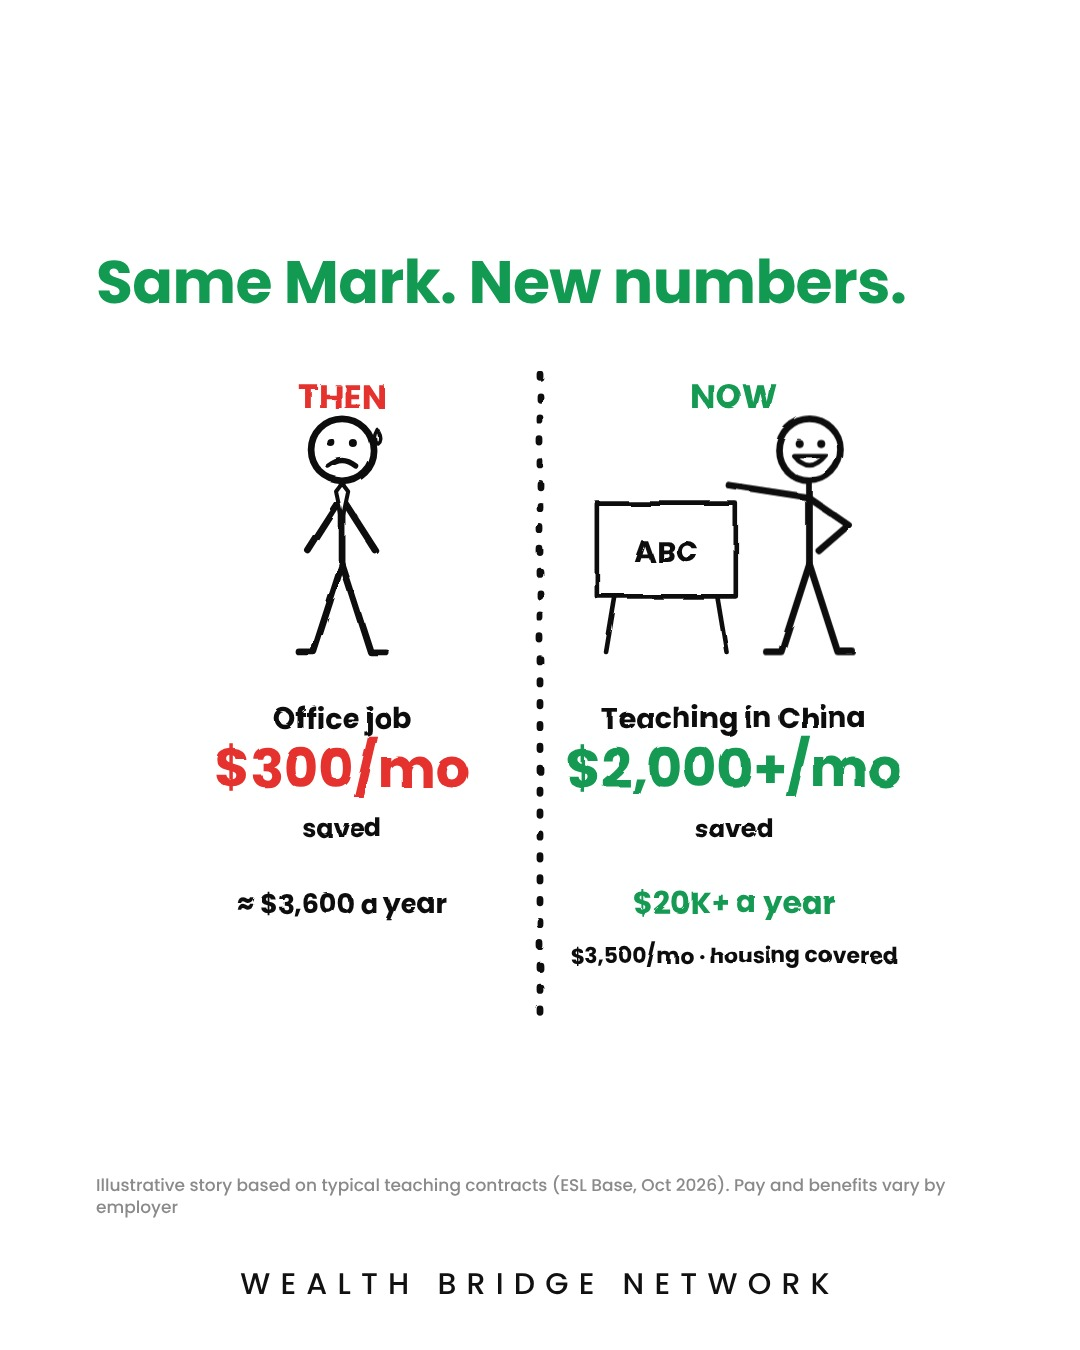
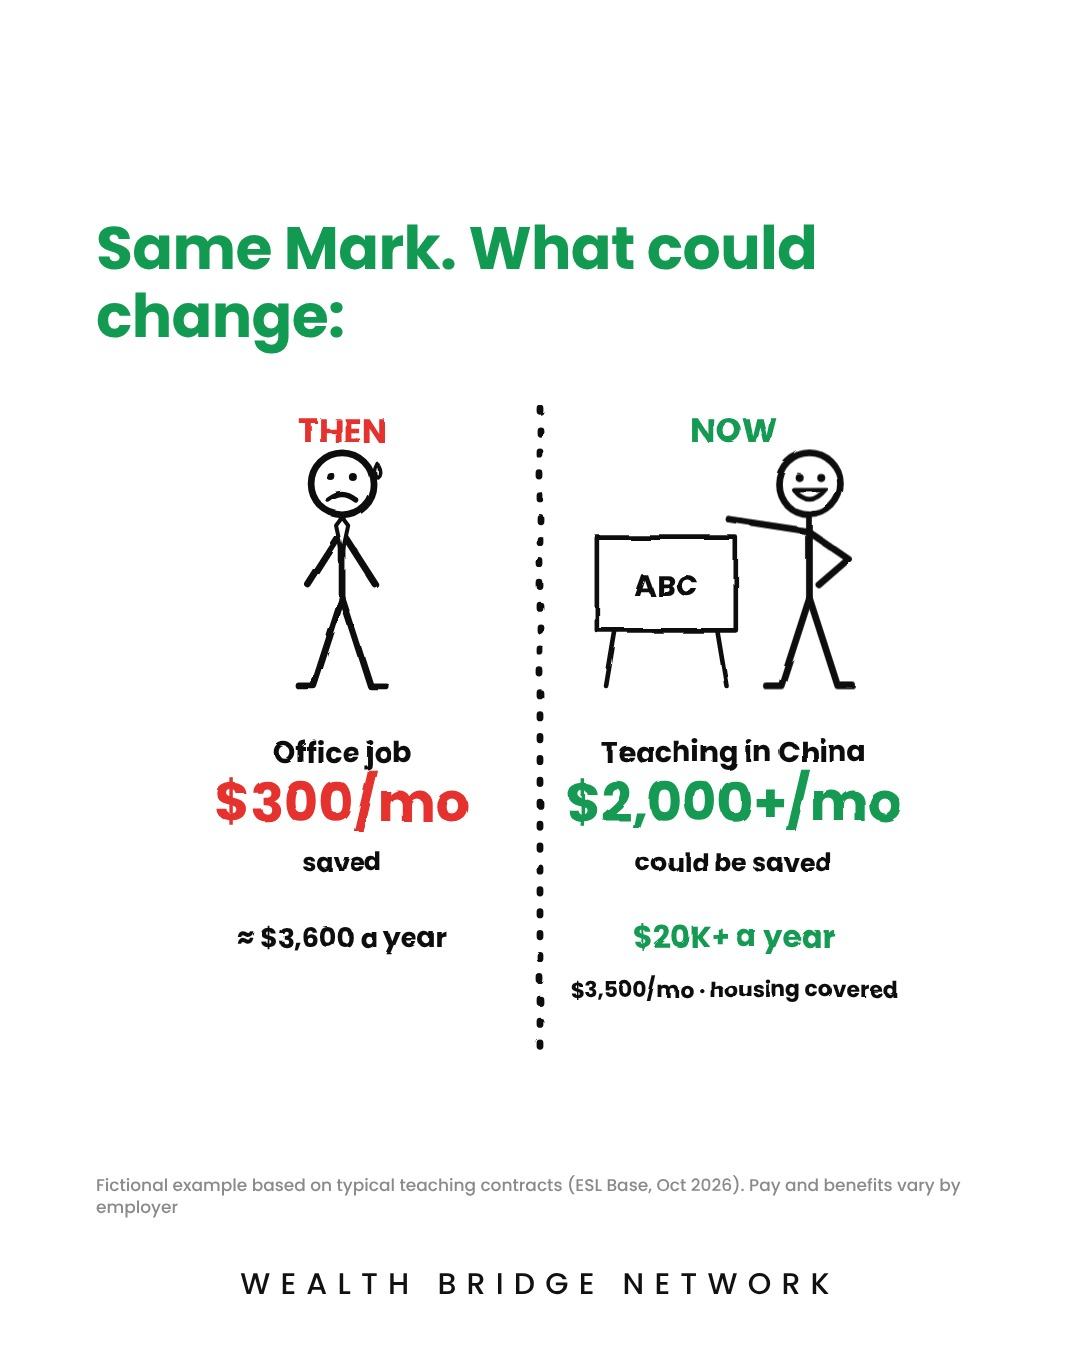
54 Mark: reframe as a fictional what-if example, not a true story
Claude-Session: https://claude.ai/code/session_01XWHiAuJ5usg3NqhhkBZ2QK

diff --git a/content/marks_story.py b/content/marks_story.py
@@ -8,7 +8,7 @@ from doodle import _p, _t, _c, _g, INK, RED, GREEN
 
 SIGN = "Building Bridges | Creating Access"
 TAGS = "#china #explore #chinatravel #Guangzhou"
-NOTE = "Illustrative story based on typical teaching contracts (ESL Base, Oct 2026). Pay and benefits vary by employer"
+NOTE = "Fictional example based on typical teaching contracts (ESL Base, Oct 2026). Pay and benefits vary by employer"
 
 
 # ---------------------------------------------------------------- extra doodles
@@ -107,25 +107,26 @@ def envelope_phone(x, y, s=1.0):
 
 
 def caption():
-    return ("He was saving $300 a month. Now he saves $2,000+.\n\n"
-            "Degree. Debt. 40+ hour weeks. Out of shape, paycheck to paycheck, no free time. Then an email from an agent in China: "
-            "an English teaching job at $3,500 a month with housing covered. He took the flight. Now he saves $20K+ a year, and he's still paid in the summer.\n\n"
+    return ("What if you went from saving $300 a month to $2,000+?\n\n"
+            "Picture Mark. He's a made-up example, but his situation is common: degree, debt, 40+ hour weeks, paycheck to paycheck, no free time. "
+            "Now say he takes an English teaching job in China at $3,500 a month with housing covered. With no rent to pay, he could save $2,000+ a month, "
+            "over $20K a year, and many contracts keep paying through the summer break.\n\n"
             "This is the bridge to freedom. There are tons of global opportunities that could change your life. Join our community today: link in bio.\n\n"
-            "(Not financial advice. Illustrative story based on typical teaching contracts. Pay and benefits vary by employer.)\n\n"
+            "(Not financial advice. Mark is a fictional example based on typical teaching contracts. Pay and benefits vary by employer.)\n\n"
             f"Follow @wealthbridgenetwork for more China opportunities.\n\n{SIGN}\n\n{TAGS} "
             "#teachinchina #teachabroad #expatlife #financialfreedom #debtfree #careerchange")
 
 
 POSTS = [
-dict(id="54-marks-story", pillar="Job offers", title="Mark's story: the bridge to freedom", caption=caption(),
+dict(id="54-marks-story", pillar="Job offers", title="What if you taught in China? Mark's example", caption=caption(),
  slides=[
  # 1 · HOOK: split screen then / now
- dict(hook="He saved *$300*\na month.\nNow he saves\n*$2,000+.*", hs=100, swipe=True, kick="Same guy. Different side of the bridge.",
+ dict(hook="Saving *$300*\na month?\nIt could be\n*$2,000+.*", hs=100, swipe=True, kick="Here's how that could happen.",
       scene=lbl(215, 40, "THEN", RED) + lbl(680, 40, "NOW", GREEN) + divider(450, 0, 470)
       + ground(40, 410, 470) + laptop(170, 470, 0.7) + figure(330, 470, 0.85, "down", "sad", tie=True, sweat=True) + tag(150, 280, 0.6, "$300")
       + ground(490, 880, 470) + palm(840, 470, 0.85) + lounger(640, 470, 0.85) + moneybag(560, 330, 0.6), vh=490),
  # 2 · BACKSTORY
- dict(text=["Meet Mark. He did everything *right.*", "Grew up in the West. Got the degree.", "Got the *debt*, too."], fs=56,
+ dict(text=["Picture Mark. He's not real, but *his story is common.*", "Grew up in the West. Got the degree.", "Got the *debt*, too."], fs=56,
       scene=ground(60, 840, 400) + figure(260, 400, 0.95, "up", "grin") + cap(262, 60, 0.55) + arrow(420, 220, 560, 260, -50) + bills(700, 400, 1.05), vh=420),
  # 3 · CORPORATE (split: work / home)
  dict(head="Then straight into corporate.", items=["*40+ hours* a week", "Out of shape", "Paycheck to paycheck", "*No free time*"], **{"is": 48},
@@ -133,36 +134,36 @@ dict(id="54-marks-story", pillar="Job offers", title="Mark's story: the bridge t
       + ground(40, 410, 360) + laptop(150, 360, 0.6) + clock(330, 200, 0.6) + figure(330, 360, 0.7, "phone", "sad", tie=True, sweat=True)
       + ground(490, 880, 360) + sofa(740, 360, 0.85) + figure(580, 360, 0.7, "down", "sad") + _t(760, 150, "z z z", 40, 800), vh=380),
  # 4 · THE MATH (diagram)
- dict(head="Where his paycheck went:", text=["Rent, loans, car, bills… *$300* left. Every month."], fs=48,
+ dict(head="Where his paycheck goes:", text=["Rent, loans, car, bills… *$300* left. Every month."], fs=48,
       scene=f'<rect x="60" y="40" width="780" height="80" rx="18" fill="#fff" stroke="{INK}" stroke-width="9"/>' + _t(450, 96, "PAYCHECK", 40, 800)
       + "".join(f'<rect x="{60+i*200}" y="170" width="180" height="140" rx="14" fill="#fff" stroke="{INK}" stroke-width="9"/>'
                 + _t(150 + i * 200, 252, w, 34, 800, RED) for i, w in enumerate(["RENT", "LOANS", "CAR", "BILLS"]))
       + arrow(450, 330, 450, 410, 0)
       + f'<rect x="330" y="420" width="240" height="90" rx="45" fill="#2FE08A" stroke="{INK}" stroke-width="9"/>' + _t(450, 480, "$300", 48, 800), vh=530),
  # 5 · THE EMAIL
- dict(text=["One night he searched for *something different.*", "Then an email came from an agent in China."], fs=50,
+ dict(text=["Say one night he searches for *something different.*", "An agent in China emails him a *teaching offer.*"], fs=50,
       scene=ground(60, 840, 700) + figure(170, 700, 0.95, "phone", "wow") + envelope_phone(560, 700, 1.0), vh=720),
  # 6 · THE FLIGHT
- dict(text=["He said *yes.*", "Packed two bags. Took the flight. Accepted the offer."], fs=56,
+ dict(text=["What if he says *yes?*", "Packs two bags. Takes the flight. Starts the job."], fs=56,
       scene=ground(60, 840, 400) + pin(140, 400, 0.6) + lbl(140, 440, "HOME", INK, 30)
       + _p("M140,240 Q450,-40 760,240", 8) + plane(450, 130, 0.55) + pin(760, 400, 0.6, GREEN) + lbl(760, 440, "CHINA", GREEN, 30)
       + figure(330, 400, 0.65, "wave", "grin") + box(470, 400, 0.6, "") + box(570, 400, 0.5, ""), vh=460),
  # 7 · THEN vs NOW (split screen)
- dict(head="Same Mark. New numbers.",
+ dict(head="Same Mark. What could change:",
       scene=lbl(215, 40, "THEN", RED) + lbl(680, 40, "NOW", GREEN) + divider(450, 0, 760)
       + figure(215, 330, 0.8, "down", "sad", tie=True, sweat=True)
       + lbl(215, 420, "Office job", INK, 34, 600) + lbl(215, 490, "$300/mo", RED, 64) + lbl(215, 550, "saved", INK, 30, 600)
       + lbl(215, 640, "≈ $3,600 a year", INK, 32, 700)
       + board(600, 330, 0.55, "ABC") + figure(770, 330, 0.8, "point", "grin", flip=True)
-      + lbl(680, 420, "Teaching in China", INK, 34, 600) + lbl(680, 490, "$2,000+/mo", GREEN, 64) + lbl(680, 550, "saved", INK, 30, 600)
+      + lbl(680, 420, "Teaching in China", INK, 34, 600) + lbl(680, 490, "$2,000+/mo", GREEN, 64) + lbl(680, 550, "could be saved", INK, 30, 600)
       + lbl(680, 640, "$20K+ a year", GREEN, 36, 800) + lbl(680, 700, "$3,500/mo · housing covered", INK, 26, 600), vh=760,
       src=NOTE),
  # 8 · SUMMER + CLOSE
- dict(text=["Summer break? *Still paid.* Plus a bonus. This is the *bridge to freedom.*",
+ dict(text=["Summer break? On many contracts, *still paid,* sometimes with a bonus. That's the *bridge to freedom.*",
             "This is not financial advice, but there are *tons of global opportunities* that could change your life.",
             "*Join our community today. Link in bio.*"], fs=44,
       scene=ground(60, 840, 560) + sun(110, 90, 0.7) + palm(110, 560, 0.85) + umbrella(330, 560, 0.75) + lounger(330, 560, 0.9)
       + payslip(680, 470, 0.82, rows=[("Paid holiday", "+$3,500"), ("Bonus", "Paid ✓")], total=("July", "$3,500+")) + plus(520, 150, 0.8), vh=580,
-      src="Not financial advice. Illustrative story; paid holidays and bonuses depend on the contract"),
+      src="Not financial advice. Mark is a fictional example; paid holidays and bonuses depend on the contract"),
 ]),
 ]
